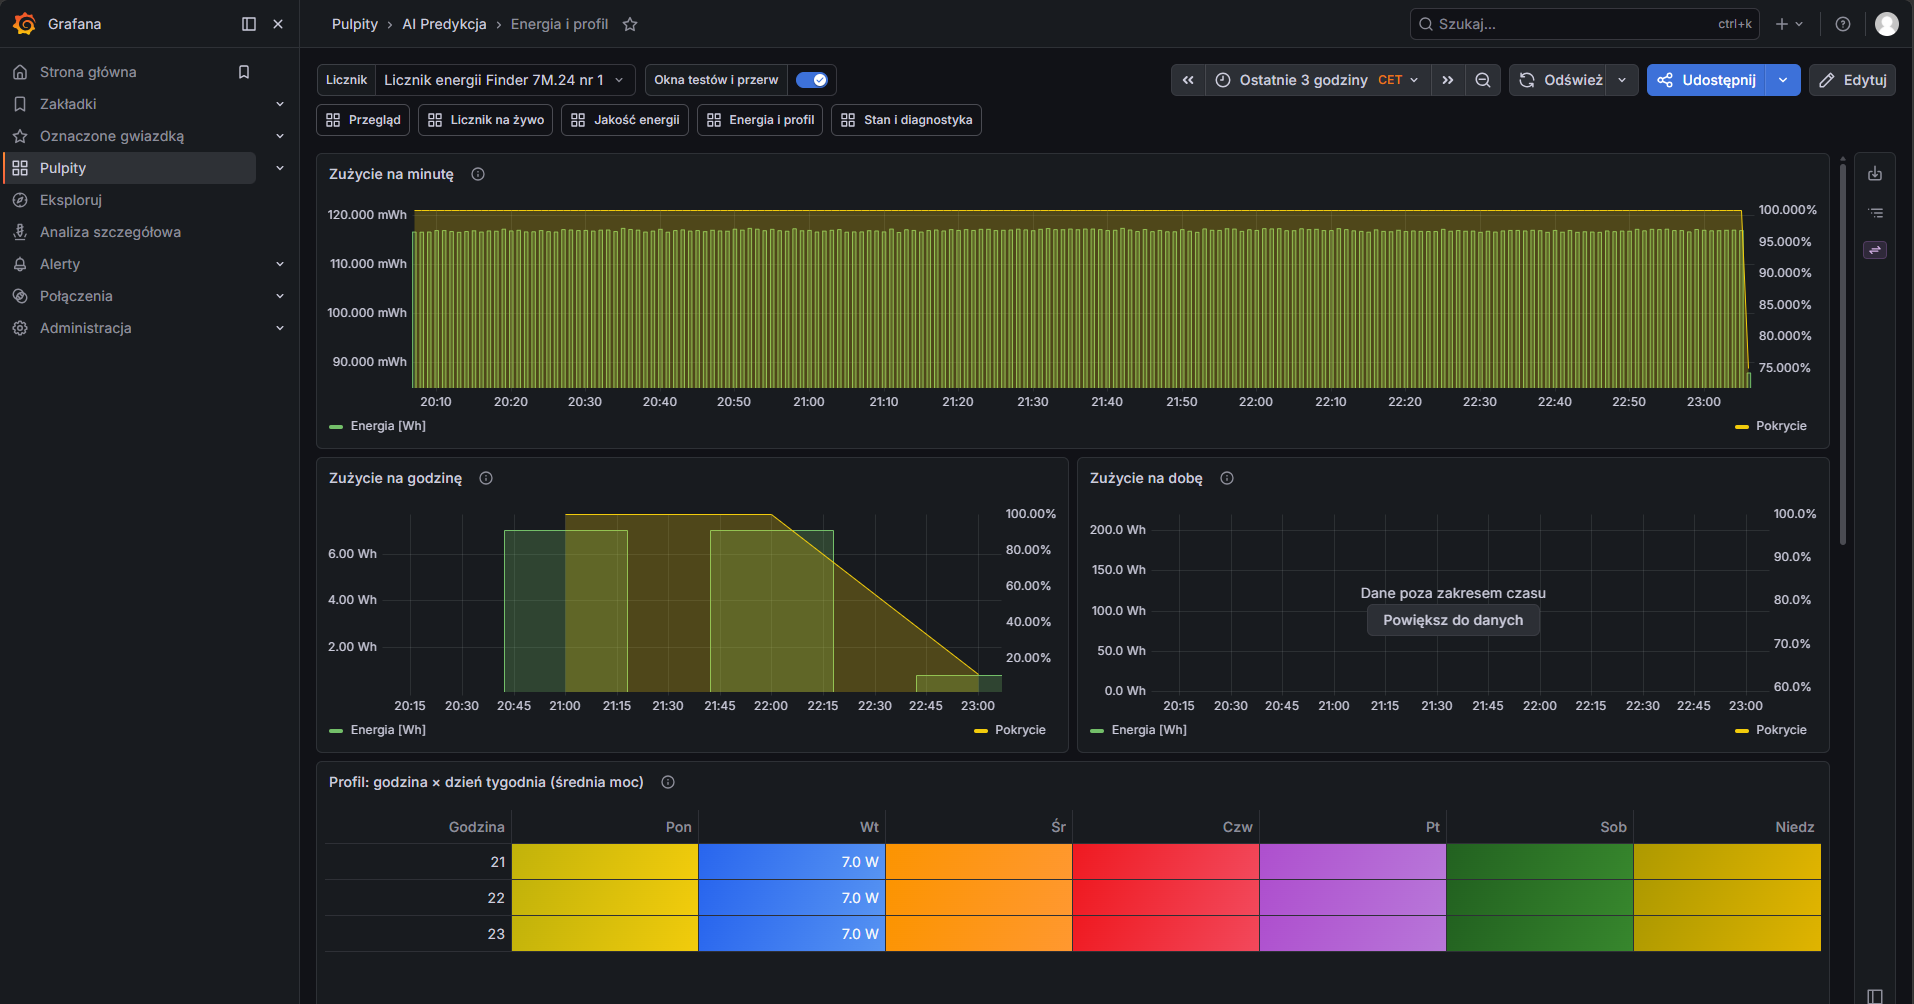
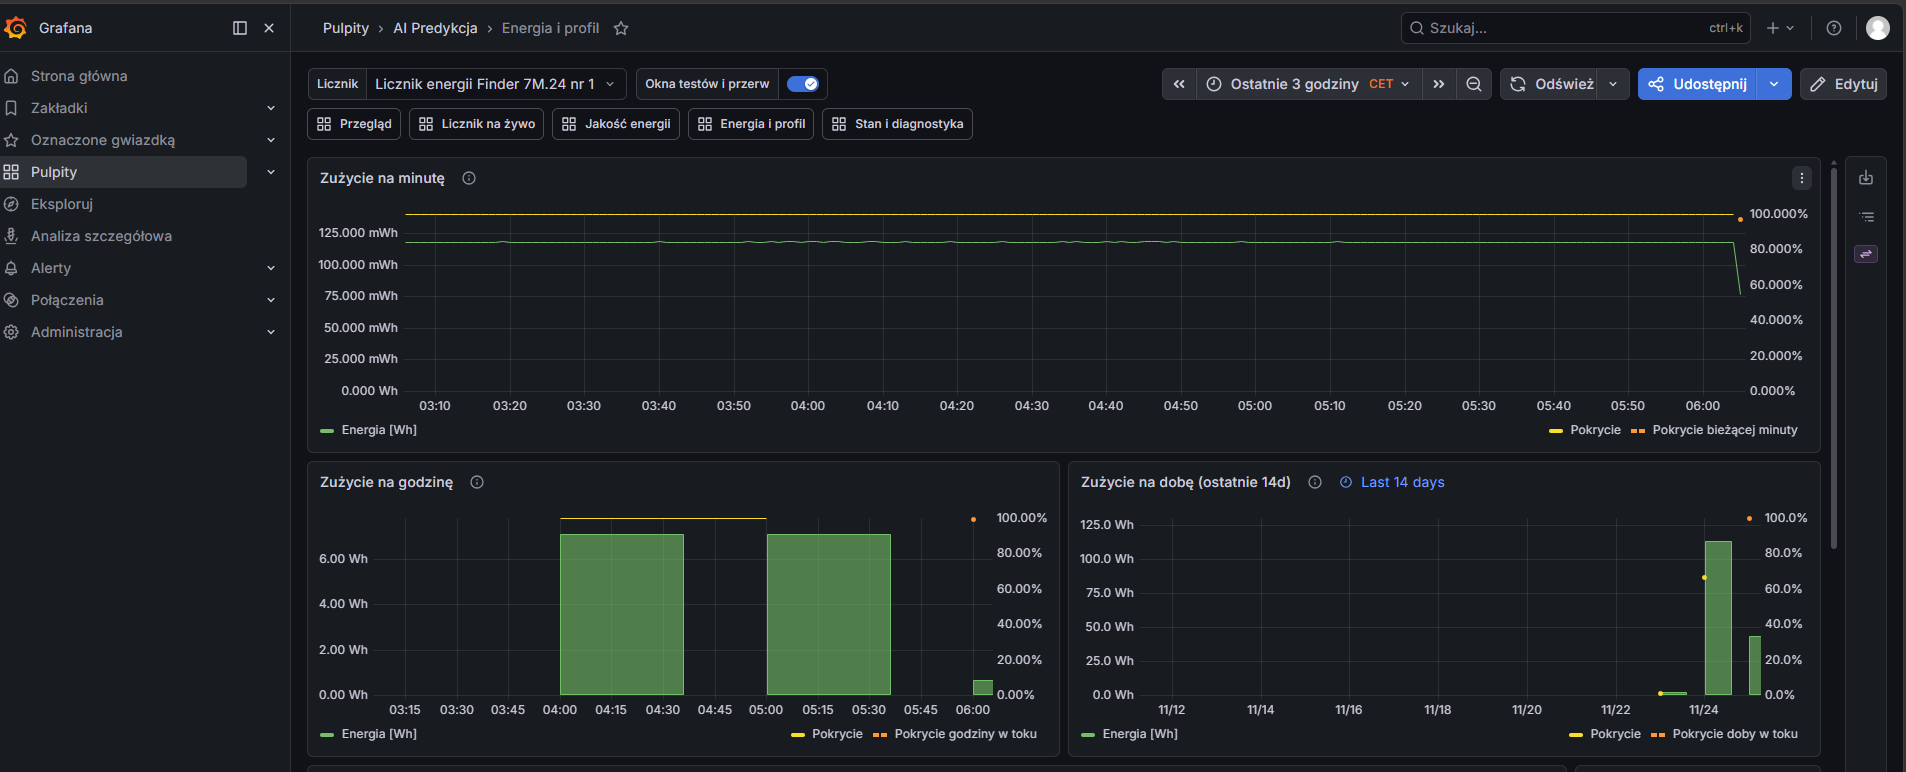
docs: e2-k7b visual review and updated Grafana screenshots

diff --git a/docs/handoff/e2-k7b-visual-review.md b/docs/handoff/e2-k7b-visual-review.md
@@ -1,0 +1,97 @@
+# E2-k7b – review wizualny dashboardów (architekt)
+
+Data: 2026-11-25, ok. 06:10 czasu lokalnego. Podstawa: 10 zrzutów Grzegorza z laptopa
+(zakresy 3 h i 6 h, profil 28 d, kontrola 14 d), zapisane w `docs/images/etap2/`:
+03, 04, 04b, 05, 05b, 06, 06b-profil, 06c-kontrola, 07, 07b.
+
+**Werdykt: OK Z UWAGAMI.** Dane są spójne i wiarygodne, dashboardy nadają się do pracy.
+Do poprawy jest krok **k7c**. Obejmuje usterki wizualne (W-1…W-9) i jedno okno adnotacji (A-1).
+Krok jest mały, bez zmian w bazie poza migracją z oknem.
+
+## Co jest dobrze (sprawdzone na zrzutach)
+
+- Przegląd: stany licznika i PLC, moc 7,0 W, wiek odczytu 611 ms, pokrycie od północy 99,7 %.
+  „Epizody błędu licznika dziś” = 14, zgodnie ze skokiem `meter_error_count` 18 → 32 na zrzucie 07.
+- Jednostka „var” jest przy Q (kafelek, tabela i wykres). Ujemne Q przy PF 0,37 pasuje do obciążenia pojemnościowego (zasilacz).
+- Wiersze na minutę ≈ 780, czyli 13/s. Na wykresie widać lekki spadek w czasie epizodów błędu (5/s).
+- Kontrola całki za 24.11: całka 112,8 Wh przy pokryciu 66,8 %, ekstrapolacja 168,9 Wh, licznik +100 Wh.
+  Wynik `within_resolution = true` jest zgodny z D7.
+- Histogram napięcia, Q/P, odchyłka częstotliwości: czytelne.
+
+## Obserwacja do E2-PLC1 (nie do poprawy w k7c)
+
+Epizody błędu licznika 25.11 przyszły **seriami**: 15 epizodów między ok. 00:35 a 01:00 czasu lokalnego,
+potem 5 h bez żadnego. Nie jest to stała siatka 64 s przez całą dobę.
+Do zapisania w `e2-plc1` jako fakt. Proszę o zapytanie SQL z godzinowym rozkładem epizodów
+za 23–25.11 w raporcie k7c (tylko odczyt).
+
+## Uwagi do poprawy (k7c)
+
+**W-1 (ważna) – mapa cieplna: brak danych wygląda jak wartość.** W panelu „Profil: godzina × dzień tygodnia”
+komórki bez danych są zielone, tak samo jak niskie wartości. Przykład: wtorek 1–6 to zanik zasilania, a komórki są zielone.
+Komórki z danymi (~99–100 %) są czerwone, więc stałe obciążenie wygląda jak alarm.
+Poprawka:
+- brak danych = przezroczysta lub szara komórka bez liczby;
+- skala jednobarwna (sekwencyjna, np. jasny → ciemny niebieski), bez zieleni i czerwieni,
+  bo to profil zużycia, nie ocena dobrze/źle;
+- liczba w komórce zostaje.
+
+**W-2 (ważna) – „Kod błędu komunikacji” (07).** Pasek „16 161 RESPONSE_TIMEOUT” ciągnie się przez cały zakres
+do 06:10, choć od ok. 01:00 nie ma błędów, a `meter_error_code` = 0 przy sprawnym liczniku.
+Wygląda to na trwający timeout. Poza tym 161 i 162 mają w legendzie ten sam niebieski kolor,
+a prefiks „16” jest niejasny. Poprawka:
+- oś stanów ma pokazywać kod tylko w czasie `meter_status ≠ 0`, a poza tym „Brak błędu” (zielony);
+- 161, 162 i 163 dostają różne kolory;
+- liczbę epizodów, jeśli to jest „16”, trzeba przenieść do opisu panelu albo osobnego kafelka.
+W raporcie wyjaśnić, skąd było „16”.
+
+**W-3 – Zużycie na minutę (06).** Na końcu wykresu linia spada, bo bieżąca minuta jest niepełna.
+Wygląda to na spadek zużycia. Poprawka: niepełnego wiaderka nie rysujemy w linii energii.
+Jego pokrycie zostaje jako pomarańczowy punkt. Oś: „125.000 mWh” → maks. 1 miejsce po przecinku
+albo jednostka Wh z 3 miejscami, bez mieszania mWh/Wh.
+
+**W-4 – Pomarańczowy punkt „w toku” (06).** Na godzinie i dobie stoi na 100 %, a tabela w Przeglądzie
+podaje dla dziś 25 %. To dwie różne definicje: pokrycie upłynionej części albo pokrycie całego wiaderka.
+Obie są poprawne, ale nie mogą stać obok siebie bez opisu. Poprawka: w opisie panelu i legendzie
+„Pokrycie upłynionej części (w toku)”. W tabeli Przeglądu kolumnę nazwać „Pokrycie doby”.
+
+**W-5 – Osie z powtórzonymi etykietami (06b).** Panele „Moc: bieżący zakres a poprzednia doba / tydzień”
+mają trzy etykiety „7.1 W” (również 06c: „7.0 W” ×2). Poprawka: `decimals` = 2 dla mocy w tych panelach.
+
+**W-6 – Moc bazowa (06c).** Jeden punkt na noc nie rysuje się jako linia, więc panel wygląda na pusty
+(wartość widać tylko w dymku: 7,0 W). Poprawka: słupki albo punkty (`pointSize` ≥ 6, `showPoints: always`).
+
+**W-7 – Obcięte tytuły i nagłówki.**
+- 05: „Minuty poza pasme…”: krótszy tytuł („Minuty poza pasmem U”) albo szerszy kafelek.
+- 06b: kafelek „M…” obok mapy cieplnej: szerszy albo tytuł „Moc maks.”.
+- 06c: nagłówki tabeli kontrolnej („rzyrost licznika”, „łniona do doby”, „W granicach rozdziel”): krótsze nazwy
+  (np. „Licznik [Wh]”, „Ekstrap. [Wh]”, „W rozdz.”) albo ustawione szerokości kolumn.
+- 03: tabela „Zużycie dziś i wczoraj” ma poziomy pasek przewijania; zmieścić bez przewijania.
+
+**W-8 – Tabela „Wartości w oknie” (04).** Wiersz napięcia jest ucięty i trzeba przewijać.
+Panel ma pokazać wszystkie 7 wielkości bez przewijania (wyższy panel).
+
+**W-9 – Granice pasma (05, 05b).** Legenda mówi „Górna granica pasma” na czerwono, a górna linia przerywana
+jest szara (napięcie i częstotliwość). Dolna jest czerwona. Obie mają być w tym samym kolorze, zgodnie z legendą.
+
+Drobne, bez zmian: PF na skali 0–1 jest płaski przy stałym obciążeniu; zostaje stała skala,
+bo przy zmiennym obciążeniu porównanie jest czytelniejsze.
+
+## A-1 – nowe okno adnotacji
+
+Grzegorz potwierdził 25.11: **24.11 ok. 15:25 czasu lokalnego (ok. 14:25 UTC) wgrał program do PLC**
+(download z CODESYS po poprawce `FB_EnergyMeter`). To wyjaśnia 18 s `link_status = 1` i wyzerowanie `meter_error_count`.
+Dodać okno do `data_windows` nową migracją (bez zmiany starych):
+- rodzaj `plc_program_download`;
+- dokładne granice wziąć z bazy (pierwsza i ostatnia sekunda `link_status = 1` w tym epizodzie);
+- opis: „Download programu PLC (Grzegorz), reset liczników FB”.
+
+Jeśli w `data_windows` jest ograniczenie listy rodzajów, rozszerzyć je w tej samej migracji.
+
+## Zakres k7c i kolejny krok
+
+k7c = W-1…W-9 + A-1 + zapytanie o rozkład epizodów. Testy i zapytania paneli na produkcji jak w k7b.
+Po wdrożeniu Grzegorz robi ponownie tylko zrzuty 05, 06, 06b, 06c, 07, z tymi samymi nazwami.
+Plan k7c można pominąć (zakres zamknięty w tym pliku); raport `e2-k7c-report.md`.
+
+Kolejność dalej (decyzja Grzegorza do podjęcia): E2-PLC2 albo k8.
